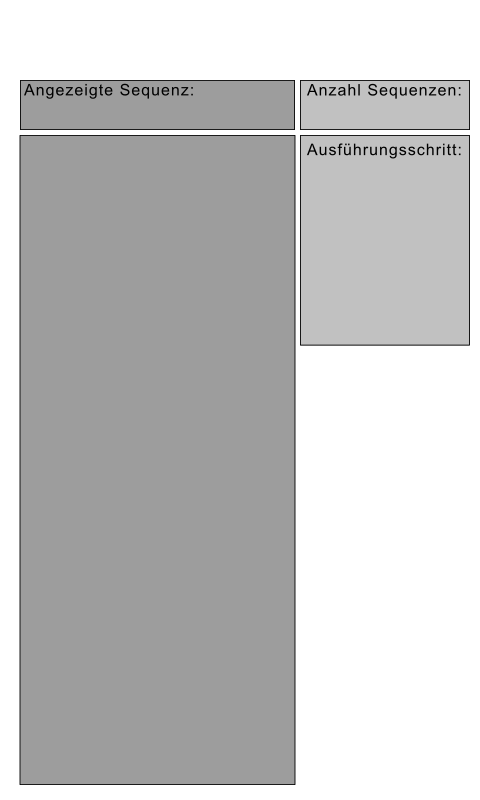
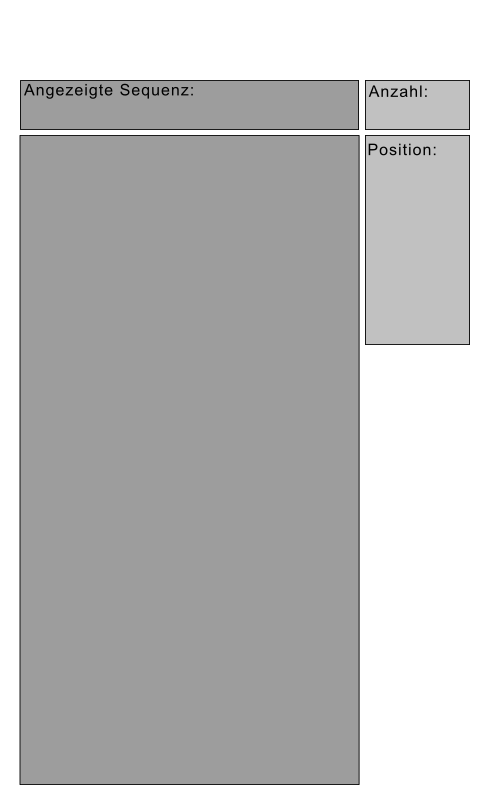
improved sequence overview gui

Changed region(s): [[0.5938, 0.0938, 0.9688, 1.0]]

diff --git a/src/main.cpp b/src/main.cpp
@@ -27,7 +27,7 @@ int main()
 		std::cout << SDL_GetError() << std::endl;
 	}
 
-	int gui_state = 2; //used to iterate over the different GUIs
+	int gui_state = 1; //used to iterate over the different GUIs
 	int nmbr_of_guis = 3;//Ammount of used guis 
 
 	//Initialize IMG
@@ -87,6 +87,7 @@ int main()
 
 
 	sequence_overview.loadFont("ARIAL_Black", "/fonts/arial.ttf", 0, 0, 0);
+	sequence_overview.loadTexture("Seq_Liste", "/resource/Sequenzuebersicht.png");
 	sequence_overview.loadTexture("Dreieck_Rechts", "/resource/dreieck_rechts.png");
 	sequence_overview.loadTexture("Dreieck_Links", "/resource/dreieck_links.png");
 	sequence_overview.loadTexture("Sequenz_Play_Pause", "/resource/play_pause.png");
@@ -243,6 +244,8 @@ int main()
 					}
 
 					sequence_overview.drawBackGroundColor(225, 225, 225);
+					sequence_overview.drawVisualElement(0, 0, 480, 800, "Seq_Liste", false);
+
 
 					//Info Elements: Time and date, FPS, ms/frame
 					sequence_overview.drawVisualElement(0, 0, 480, 30, 245, 245, 245, false);
@@ -250,30 +253,25 @@ int main()
 					sequence_overview.drawText_r(473, 9, "Time(ms)/frame: " + std::to_string((int)total_time_last_frame.count()), "ARIAL_Black");
 					sequence_overview.drawText_l(7, 9, str_current_time, "ARIAL_Black");
 
-					//Sequenzname
-					sequence_overview.drawText_l(10, 40, "Angezeigte Sequenz: " + sqh.getSequenceName(asked_sequence), "ARIAL_Black");
-					//Sequenznummer
-					sequence_overview.drawText_l(350, 40, std::to_string(asked_sequence + 1) + " / " + std::to_string(sqh.getAmmountOfLoadedSequences()), "ARIAL_Black", 140, 140, 140);
+					//Sequenzinfo
+					sequence_overview.drawText_l(30, 105, sqh.getSequenceName(asked_sequence) + "  |  Position: " + std::to_string(sqh.getExecutionStep(sqh.getSequenceName(asked_sequence))) + " / Anzahl Schritte: " + std::to_string(sqh.getSequenceStepAmmount(asked_sequence)) + "", "ARIAL_Black");
+
+					//Sequenzanzahl
+					sequence_overview.drawText_l(367, 105, std::to_string(sqh.getAmmountOfLoadedSequences()), "ARIAL_Black");
 
 
-					sequence_overview.drawList_l(10, 100, 22, 350, 630, hw->getButton3Press(), hw->getButton4Press(), sqh.getSequenceFunctions(asked_sequence), "ARIAL_Black");
+					sequence_overview.drawList_l(23, 137, 22, 270, 648, hw->getButton3Press(), hw->getButton4Press(), sqh.getSequenceFunctions(asked_sequence), "ARIAL_Black");
 
-					sequence_overview.drawText_l(10, 60, "Sequenzen durchschalten: Taste 2", "ARIAL_Black");
-					
-					//sequence_overview.drawVisualElement(10, 726, 32, 32, "Dreieck_Links");
-					//sequence_overview.drawVisualElement(406, 726, 32, 32, "Dreieck_Rechts");//xpos = 480-10-64, ypos = 800-10-64
-
-					sequence_overview.drawVisualElement(365, 70, 110, 60, 200, 200, 200, false);
-					
 
 					for (int i = 0; i < sqh.getAmmountOfLoadedSequences(); i++)
 					{
 						//Draw text for every loaded sequence. Offset the y-position for every sequence
-						sequence_overview.drawText_l(370, 75 + i *20, "Sequence " + std::to_string(i) + ": " + std::to_string(sqh.getExecutionStep(sqh.getSequenceName(i))), "ARIAL_Black");
+						/*sequence_overview.drawText_l(305, 160 + i* 20, "Sequence " + std::to_string(i) + ": " + std::to_string(sqh.getExecutionStep(sqh.getSequenceName(i))), "ARIAL_Black");
+						sequence_overview.drawText_l(305, 160 + i *20, "Sequence " + std::to_string(i) + ": " + std::to_string(sqh.getExecutionStep(sqh.getSequenceName(i))), "ARIAL_Black");*/
+
+						sequence_overview.drawList_l(367, 160+ i*40, 20, { sqh.getSequenceName(i), std::to_string(sqh.getExecutionStep(sqh.getSequenceName(i)))}, "ARIAL_Black");
 					}
 
-					sequence_overview.drawText_l(370, 135, "Pausiere: " , "ARIAL_Black");
-					sequence_overview.drawVisualElement(370, 170, 32, 32, "Sequenz_Play_Pause", false);
 
 					sequence_overview.drawCursor();
 					

diff --git a/src/GUI.cpp b/src/GUI.cpp
@@ -289,7 +289,7 @@ void GUI::drawList_l(int x_pos, int y_pos, int spacing,  std::vector<std::string
 	for (int i = 0; i < text.size(); i++)
 	{
 		line_text.clear();
-		line_text = std::to_string(i) + ")" + text.at(i);
+		line_text = text.at(i);
 
 		int nmbr_of_characters = line_text.length();
 
@@ -396,12 +396,14 @@ void GUI::drawList_l(int x_pos, int y_pos, int spacing, int width, int height, i
 			rect_text.x += rect_text.w;
 		}
 
-		if (vertical_text_pos > x_pos + height)
+		vertical_text_pos += spacing;
+
+		if (vertical_text_pos > y_pos + height - 20)
 		{
 			break;
 		}
 
-		vertical_text_pos += spacing;
+		
 
 
 	}
@@ -484,12 +486,14 @@ void GUI::drawList_l(int x_pos, int y_pos, int spacing, int width, int height, b
 			rect_text.x += rect_text.w;
 		}
 
-		if (vertical_text_pos > x_pos + height)
+		vertical_text_pos += spacing;
+
+		if (vertical_text_pos > y_pos + height - 20)
 		{
 			break;
 		}
 
-		vertical_text_pos += spacing;
+		
 
 
 	}

diff --git a/src/Sequence_Handler.h b/src/Sequence_Handler.h
@@ -45,6 +45,9 @@ public:
 	//@param number Gets the sequence stored in NUMBER pos in map..use to switch through all the sequences without using their names
 	std::vector<std::string> getSequenceFunctions(int number);
 
+	//@brief Gets the ammount of total function steps --> length of the sequence
+	//@param number Gets the sequence stored in NUMBER pos in map..use to switch through all the sequences without using their names
+	int getSequenceStepAmmount(int number);
 
 	//@brief Use together with getSequenceFunctions(int number)
 	std::string getSequenceName(int number);

diff --git a/src/Sequence_Handler.cpp b/src/Sequence_Handler.cpp
@@ -327,6 +327,11 @@ std::vector<std::string> Sequence_Handler::getSequenceFunctions(int number)
 
 }
 
+int Sequence_Handler::getSequenceStepAmmount(int number)
+{
+	return m_sequences.at(number).size();
+}
+
 std::string Sequence_Handler::getSequenceName(int number)
 {
 	if (number > m_sequences.size() - 1)
